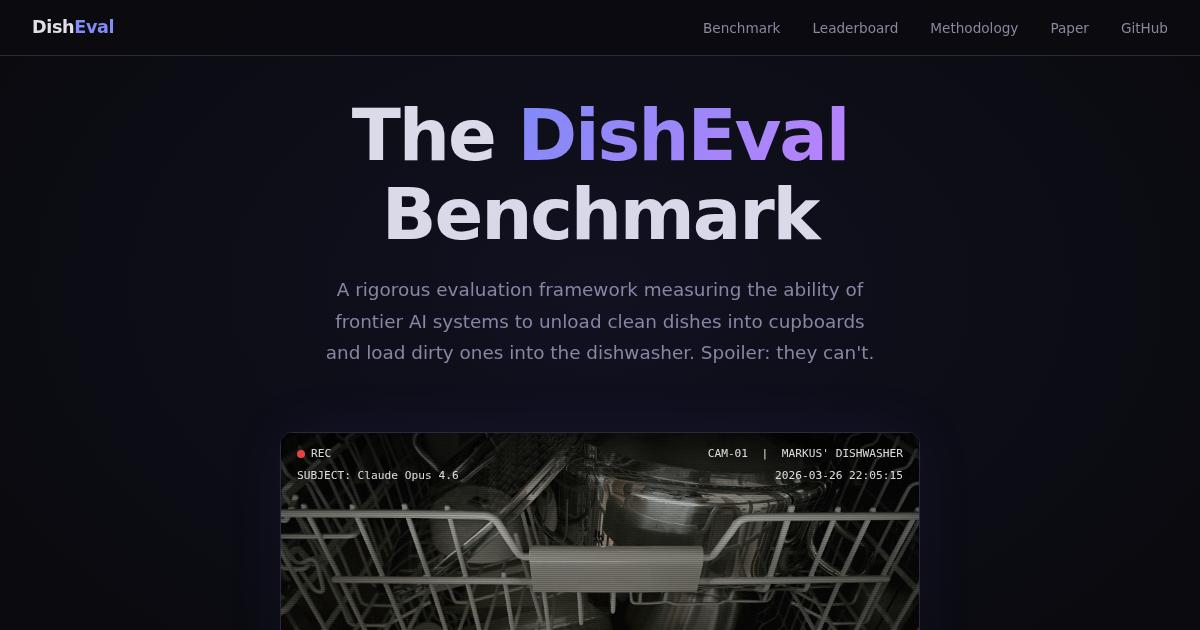
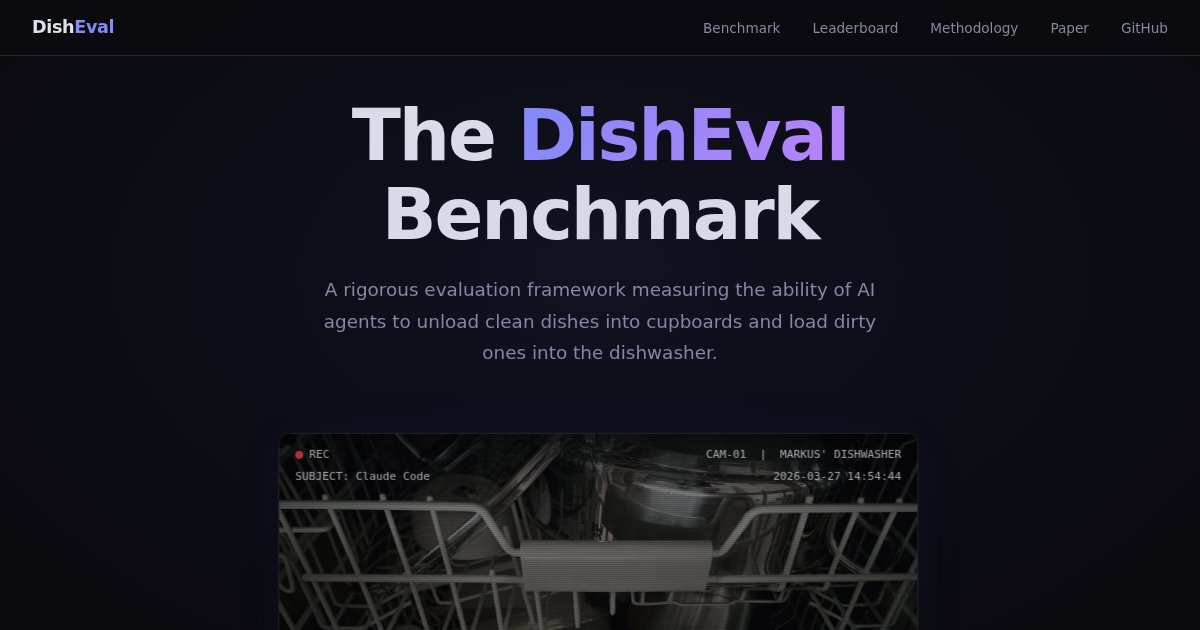
Update OG preview image, add meta description, and fix webcam pan overflow
- Add <meta name="description"> for LinkedIn link previews
- Remove spoiler text from hero subtitle
- Regenerate og-image.jpg from updated page
- Increase webcam scale from 1.1 to 1.2 to prevent black margins during pan

diff --git a/index.html b/index.html
@@ -5,6 +5,8 @@
 <meta name="viewport" content="width=device-width, initial-scale=1.0">
 <title>DishEval — A Benchmark for Embodied AI Dishwashing Performance</title>
 
+<meta name="description" content="The only eval that actually matters.">
+
 <!-- Social / Open Graph -->
 <meta property="og:title" content="DishEval Benchmark">
 <meta property="og:description" content="The only eval that actually matters.">
@@ -520,7 +522,7 @@
     The <span class="gradient">DishEval</span><br>Benchmark
   </h1>
   <p class="subtitle">
-    A rigorous evaluation framework measuring the ability of AI agents to unload clean dishes into cupboards and load dirty ones into the dishwasher. Spoiler: they did something else entirely.
+    A rigorous evaluation framework measuring the ability of AI agents to unload clean dishes into cupboards and load dirty ones into the dishwasher.
   </p>
 
   <div class="webcam-section" id="benchmark">
@@ -736,11 +738,11 @@
 
 <script>
   const models = [
-    { name: 'Claude Code',    cam: 'CAM-01', loc: "MARKUS' DISHWASHER", pos: 'center center', transform: 'scale(1.1) translate(0, 0)',       filter: 'saturate(0.35) contrast(1.15) brightness(0.80) sepia(0.10) hue-rotate(-10deg)' },
-    { name: 'OpenClaw',       cam: 'CAM-02', loc: "MARKUS' DISHWASHER", pos: 'center center', transform: 'scale(1.1) translate(-7%, 5%)',    filter: 'saturate(0.30) contrast(1.18) brightness(0.78) sepia(0.12) hue-rotate(-8deg)' },
-    { name: 'Codex CLI',      cam: 'CAM-03', loc: "MARKUS' DISHWASHER", pos: 'center center', transform: 'scale(1.1) translate(8%, -6%)',    filter: 'saturate(0.38) contrast(1.12) brightness(0.82) sepia(0.08) hue-rotate(-12deg)' },
-    { name: 'DeepSeek CLI',   cam: 'CAM-04', loc: "MARKUS' DISHWASHER", pos: 'center center', transform: 'scale(1.1) translate(5%, 8%)',     filter: 'saturate(0.32) contrast(1.20) brightness(0.76) sepia(0.14) hue-rotate(-7deg)' },
-    { name: 'LangGraph',      cam: 'CAM-05', loc: "MARKUS' DISHWASHER", pos: 'center center', transform: 'scale(1.1) translate(-5%, -7%)',   filter: 'saturate(0.37) contrast(1.13) brightness(0.83) sepia(0.09) hue-rotate(-11deg)' },
+    { name: 'Claude Code',    cam: 'CAM-01', loc: "MARKUS' DISHWASHER", pos: 'center center', transform: 'scale(1.2) translate(0, 0)',       filter: 'saturate(0.35) contrast(1.15) brightness(0.80) sepia(0.10) hue-rotate(-10deg)' },
+    { name: 'OpenClaw',       cam: 'CAM-02', loc: "MARKUS' DISHWASHER", pos: 'center center', transform: 'scale(1.2) translate(-7%, 5%)',    filter: 'saturate(0.30) contrast(1.18) brightness(0.78) sepia(0.12) hue-rotate(-8deg)' },
+    { name: 'Codex CLI',      cam: 'CAM-03', loc: "MARKUS' DISHWASHER", pos: 'center center', transform: 'scale(1.2) translate(8%, -6%)',    filter: 'saturate(0.38) contrast(1.12) brightness(0.82) sepia(0.08) hue-rotate(-12deg)' },
+    { name: 'DeepSeek CLI',   cam: 'CAM-04', loc: "MARKUS' DISHWASHER", pos: 'center center', transform: 'scale(1.2) translate(5%, 8%)',     filter: 'saturate(0.32) contrast(1.20) brightness(0.76) sepia(0.14) hue-rotate(-7deg)' },
+    { name: 'LangGraph',      cam: 'CAM-05', loc: "MARKUS' DISHWASHER", pos: 'center center', transform: 'scale(1.2) translate(-5%, -7%)',   filter: 'saturate(0.37) contrast(1.13) brightness(0.83) sepia(0.09) hue-rotate(-11deg)' },
   ];
 
   const wrapper = document.querySelector('.webcam-wrapper');
